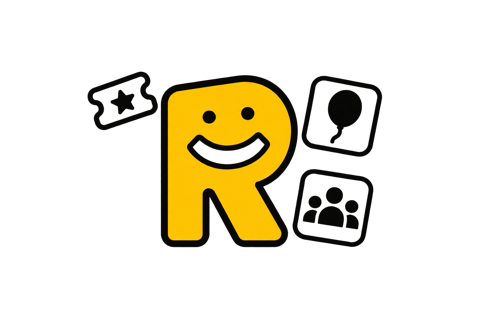
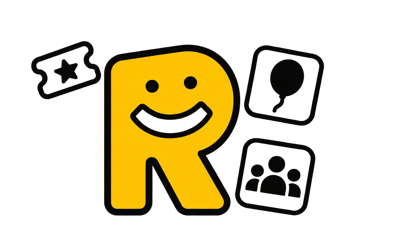
Self Onboarding: illustration position and text styles from V2
Steps show the R illustration above the title, with the description right
under it; Welcome shows it left of the title, with the description and
Get started below. Illustrations are re-cropped exactly like Figma and
saved at 2x (srcset 2x), so each takes its Figma size.

Text: UI/Headline Serif/5 is 36/45 in Figma; code had 36/54 and now
matches. New line-height/40 and UI/Headline Serif/5 Compact (+ Semibold)
for the Welcome title, added in the library too. The unused illustration
height token is removed.

Changed region(s): [[0.06, 0.1694, 0.81, 0.875]]

diff --git a/src/tokens/text-styles.css b/src/tokens/text-styles.css
@@ -121,12 +121,30 @@
 	letter-spacing: var(--letter-spacing-tight);
 }
 
-/* Figma: UI/Headline Serif/5 */
+/* Figma: UI/Headline Serif/5 — line height 45 since 2026-11-10 (code had 54; Figma already had 45, Figma wins). */
 @utility type-ui-headline-serif-5 {
 	font-family: var(--font-serif);
 	font-size: var(--font-size-36);
-	line-height: var(--line-height-54);
+	line-height: var(--line-height-45);
 	font-weight: var(--font-weight-normal);
+	letter-spacing: var(--letter-spacing-tight);
+}
+
+/* Figma: UI/Headline Serif/5 Compact — 36/40, added 2026-11-10 (Self Onboarding welcome title). */
+@utility type-ui-headline-serif-5-compact {
+	font-family: var(--font-serif);
+	font-size: var(--font-size-36);
+	line-height: var(--line-height-40);
+	font-weight: var(--font-weight-normal);
+	letter-spacing: var(--letter-spacing-tight);
+}
+
+/* Figma: UI/Headline Serif/5 Compact Semibold — same, semibold ("Welcome!"). */
+@utility type-ui-headline-serif-5-compact-semibold {
+	font-family: var(--font-serif);
+	font-size: var(--font-size-36);
+	line-height: var(--line-height-40);
+	font-weight: var(--font-weight-semibold);
 	letter-spacing: var(--letter-spacing-tight);
 }
 
@@ -410,5 +428,5 @@
 /* Always generate every text style, even if no file uses it yet
    (Tailwind otherwise only outputs classes it finds written in the code). */
 @source inline(
-	'type-{ui-button,ui-caption,ui-headline-1,ui-headline-2,ui-headline-3,ui-headline-4,ui-headline-5,ui-headline-6,ui-headline-serif-1,ui-headline-serif-2,ui-headline-serif-3,ui-headline-serif-4,ui-headline-serif-5,ui-headline-serif-6,ui-subtitle-1,ui-subtitle-2,ui-subtitle-3,ui-body-1-regular,ui-body-1-medium,ui-body-1-semibold,ui-body-2-regular,ui-body-2-medium,ui-body-2-semibold,ui-body-3-regular,ui-body-3-medium,ui-body-3-semibold,ui-body-4-regular,ui-body-4-medium,ui-body-4-semibold,ui-body-5-regular,ui-body-5-medium,ui-body-5-semibold,ui-overline-1,ui-overline-2,web-subtitles-body,web-labels,web-display-xl,web-display-lg,web-display-md,web-display-sm,web-display-xsm,web-title-regular,web-title-medium}'
+	'type-{ui-button,ui-caption,ui-headline-1,ui-headline-2,ui-headline-3,ui-headline-4,ui-headline-5,ui-headline-6,ui-headline-serif-1,ui-headline-serif-2,ui-headline-serif-3,ui-headline-serif-4,ui-headline-serif-5,ui-headline-serif-5-compact,ui-headline-serif-5-compact-semibold,ui-headline-serif-6,ui-subtitle-1,ui-subtitle-2,ui-subtitle-3,ui-body-1-regular,ui-body-1-medium,ui-body-1-semibold,ui-body-2-regular,ui-body-2-medium,ui-body-2-semibold,ui-body-3-regular,ui-body-3-medium,ui-body-3-semibold,ui-body-4-regular,ui-body-4-medium,ui-body-4-semibold,ui-body-5-regular,ui-body-5-medium,ui-body-5-semibold,ui-overline-1,ui-overline-2,web-subtitles-body,web-labels,web-display-xl,web-display-lg,web-display-md,web-display-sm,web-display-xsm,web-title-regular,web-title-medium}'
 );

diff --git a/src/pages/self-onboarding/StepIntro.svelte b/src/pages/self-onboarding/StepIntro.svelte
@@ -1,39 +1,33 @@
 <!--
-	StepIntro — top of every Self Onboarding screen (Figma V2 "Intro"): headline (UI/Headline Serif/5), then the
-	description (UI/Body/1, muted) next to the "R" illustration (240 × 130, decorative). Gap 8, row gap 12.
-	In dark mode it shows `illustrationDark` (light outlines) when there is one (Adriana, 2026-11-09); otherwise
-	the same image in both modes.
+	StepIntro — top of the Self Onboarding steps (Figma V2 "Intro", updated 2026-11-10): the "R" illustration on
+	top (left-aligned, decorative), then the headline (UI/Headline Serif/5) with the description right under it
+	(UI/Body/1, muted). Gap 8 between the illustration and the text.
+	The illustration is StepIllustration (2x files, dark-mode version when there is one).
 	Page part, not a design-system component: it only exists in this flow.
 -->
 <script lang="ts" module>
 	export interface StepIntroProps {
 		/** Headline (the page's h1). */
 		title: string;
-		/** Line next to the illustration. */
+		/** Line under the headline. */
 		description: string;
-		/** Illustration image URL (light mode, and dark mode when there is no dark version). */
+		/** Illustration image URL, 2x (light mode, and dark mode when there is no dark version). */
 		illustration: string;
-		/** Dark-mode version of the illustration (light outlines). */
+		/** Dark-mode version of the illustration (light outlines), 2x. */
 		illustrationDark?: string;
 	}
 </script>
 
 <script lang="ts">
-	let { title, description, illustration, illustrationDark }: StepIntroProps = $props();
+	import StepIllustration from './StepIllustration.svelte';
 
-	const box =
-		'h-(--size-onboarding-illustration-height) w-(--size-hero-image) shrink-0 object-cover';
+	let { title, description, illustration, illustrationDark }: StepIntroProps = $props();
 </script>
 
-<div class="flex flex-col gap-8">
-	<h1 class="type-ui-headline-serif-5 text-ui-base-foreground">{title}</h1>
-	<div class="flex items-center gap-12">
-		<p class="flex-1 type-ui-body-1-regular text-ui-ui-elements-muted-foreground">{description}</p>
-		{#if illustrationDark}
-			<img src={illustration} alt="" class={[box, 'dark:hidden']} />
-			<img src={illustrationDark} alt="" class={[box, 'hidden dark:block']} />
-		{:else}
-			<img src={illustration} alt="" class={box} />
-		{/if}
+<div class="flex flex-col items-start gap-8">
+	<StepIllustration src={illustration} dark={illustrationDark} />
+	<div class="flex flex-col">
+		<h1 class="type-ui-headline-serif-5 text-ui-base-foreground">{title}</h1>
+		<p class="type-ui-body-1-regular text-ui-ui-elements-muted-foreground">{description}</p>
 	</div>
 </div>

diff --git a/src/pages/self-onboarding/WelcomeScreen.svelte b/src/pages/self-onboarding/WelcomeScreen.svelte
@@ -1,11 +1,31 @@
-<!-- Self Onboarding · 0 Welcome (Figma V2 node 78:3743). -->
+<!--
+	Self Onboarding · 0 Welcome (Figma V2 node 78:3743, updated 2026-11-10): the illustration on the left and the
+	title on the right (gap 12): "Welcome!" in UI/Headline Serif/5 Compact Semibold, then two lines in
+	UI/Headline Serif/5 Compact. Below (gap 20), indented 12: the description and "Get started" (gap 24), left-aligned.
+-->
 <script lang="ts">
-	import { intros } from '#lib/self-onboarding/sample.ts';
-	import StepFooter from './StepFooter.svelte';
-	import StepIntro from './StepIntro.svelte';
+	import { CaretRightIcon } from 'phosphor-svelte';
+	import { Button } from '#components/Button';
+	import { intros, welcomeTitle } from '#lib/self-onboarding/sample.ts';
+	import StepIllustration from './StepIllustration.svelte';
 
 	let { onnext }: { onnext: () => void } = $props();
+
+	const { illustration, illustrationDark, description } = intros.welcome;
 </script>
 
-<StepIntro {...intros.welcome} />
-<StepFooter continueLabel="Get started" oncontinue={onnext} />
+<div class="flex flex-col gap-20">
+	<div class="flex items-center gap-12">
+		<StepIllustration src={illustration} dark={illustrationDark} />
+		<h1 class="text-ui-base-foreground">
+			<span class="block type-ui-headline-serif-5-compact-semibold">{welcomeTitle.lead}</span>
+			{#each welcomeTitle.lines as line (line)}
+				<span class="block type-ui-headline-serif-5-compact">{line}</span>
+			{/each}
+		</h1>
+	</div>
+	<div class="flex flex-col items-start gap-24 px-12">
+		<p class="type-ui-body-1-regular text-ui-ui-elements-muted-foreground">{description}</p>
+		<Button iconRight={CaretRightIcon} iconRegular onclick={onnext}>Get started</Button>
+	</div>
+</div>

diff --git a/src/pages/self-onboarding/StepIllustration.svelte b/src/pages/self-onboarding/StepIllustration.svelte
@@ -1,0 +1,22 @@
+<!--
+	StepIllustration — the "R" illustration of a Self Onboarding screen (decorative). Files are cropped like Figma
+	and saved at 2x; `srcset … 2x` shows them at their Figma size. In dark mode it shows `dark` (light outlines)
+	when there is one (Adriana, 2026-11-09); otherwise the same image in both modes.
+-->
+<script lang="ts">
+	interface Props {
+		/** Image URL, 2x. */
+		src: string;
+		/** Dark-mode version (light outlines), 2x. */
+		dark?: string;
+	}
+
+	let { src, dark }: Props = $props();
+</script>
+
+{#if dark}
+	<img {src} srcset="{src} 2x" alt="" class="shrink-0 dark:hidden" />
+	<img src={dark} srcset="{dark} 2x" alt="" class="hidden shrink-0 dark:block" />
+{:else}
+	<img {src} srcset="{src} 2x" alt="" class="shrink-0" />
+{/if}

diff --git a/src/tokens/spacing.css b/src/tokens/spacing.css
@@ -45,7 +45,6 @@
 	--size-hero-image: 15rem;
 	/* Self Onboarding (Figma "Platform | Runhappy" → V2, approved by Adriana 2026-11-09). */
 	--size-onboarding-column: 35rem; /* 560 — content column and edit dialog width */
-	--size-onboarding-illustration-height: 8.125rem; /* 130 — box of the "R" illustration (width: --size-hero-image) */
 	--size-switch-track: 2.25rem; /* 36 — Switch width (height 20 = spacing-20) */
 	--size-day-label: 6rem; /* 96 — day name in DayRow, so the "to" column lines up */
 	--size-time-field: 8.75rem; /* 140 — TimeField width in DayRow */

diff --git a/src/lib/self-onboarding/sample.ts b/src/lib/self-onboarding/sample.ts
@@ -96,6 +96,12 @@ export const intros: Record<Screen, ScreenIntro> = {
 	}
 };
 
+/**
+ * Welcome title as laid out in Figma V2 (2026-11-10): "Welcome!" in semibold, then two lines in regular, next to
+ * the illustration. Same words as `intros.welcome.title`.
+ */
+export const welcomeTitle = { lead: 'Welcome!', lines: ["Let's set up", 'your front desk'] };
+
 /** The website from the recorded session. */
 export const sampleSite = 'lunte.studio';
 

diff --git a/src/tokens/typography.css b/src/tokens/typography.css
@@ -66,6 +66,7 @@
 	--line-height-24: 1.5rem;
 	--line-height-27: 1.6875rem;
 	--line-height-33: 2.0625rem;
+	--line-height-40: 2.5rem; /* added 2026-11-10 (Adriana): UI/Headline Serif/5 Compact */
 	--line-height-45: 2.8125rem;
 	--line-height-54: 3.375rem;
 	--line-height-72: 4.5rem;

diff --git a/docs/decisions.md b/docs/decisions.md
@@ -836,13 +836,28 @@ To confirm:
 
 - From Figma "Platform | Runhappy" → V2 (section "v2", node 78:4394). Front end only, sample data (lunte.studio).
 - New size tokens (`src/tokens/spacing.css`): `--size-onboarding-column` 560, `--size-onboarding-illustration-height`
-  130, `--size-switch-track` 36, `--size-day-label` 96, `--size-time-field` 140. Illustration width reuses
+  130 (removed 2026-11-10: illustrations now take their own Figma size), `--size-switch-track` 36, `--size-day-label` 96, `--size-time-field` 140. Illustration width reuses
   `--size-hero-image` (240). New border token `--border-selected` 3px (chosen ToneCard / VoiceCard).
 - Top space of the first screens: 64 (Figma 120 is off the spacing scale).
 - Card: new `tone="muted"` (ui/ui elements/card) for this flow; the Report Card stays white.
 - SiteHeader: `variant="flow"` (no divider, full width, 24 px logo, 24/32 padding) with `step` text; `product` optional.
 - New components: Chip, Switch, ProgressBar, Textarea, TimeField, SourceRow, DayRow, ToneCard, VoiceCard, Dialog.
   Open points are listed in `docs/self-onboarding.md` → "Code".
+
+### Self Onboarding: illustration position and text styles (2026-11-10, Adriana decided)
+
+- Figma V2 updated by Adriana: on steps 1–6 the "R" illustration sits above the title (left-aligned) and the
+  description right under the title; on Welcome the illustration is left of the title, with the description and
+  "Get started" below, left-aligned.
+- **UI/Headline Serif/5 drift:** Figma already had 36/45; code had 36/54. Code now matches Figma (Figma wins). The
+  Report Card home title uses it too: lines a little closer (one line on desktop, so no visible change there).
+- **New in the library and code:** `line-height/40` and the text styles `UI/Headline Serif/5 Compact` (36/40
+  regular) and `UI/Headline Serif/5 Compact Semibold` (36/40 semibold) for the Welcome title ("Welcome!" in
+  semibold). Code: `--line-height-40`, `type-ui-headline-serif-5-compact(-semibold)`. Published by Adriana the same
+  day; the 7 step titles in V2 are now linked to Serif/5 and the Welcome title to the two Compact styles.
+- Illustrations re-cropped exactly like Figma from the originals and saved at 2x; shown with `srcset … 2x`, so each
+  one takes its Figma size (153–226 wide). `--size-onboarding-illustration-height` removed.
+- Top space stays 64 (Figma now 100 on Website/Reading and 120 on Welcome, off the spacing scale).
 
 ## Corrections to the CSS export (Figma wins)
 

diff --git a/docs/self-onboarding.md b/docs/self-onboarding.md
@@ -116,7 +116,6 @@ To confirm:
   on the reading screen, the dark layer behind the dialog.
 - Missing states in Figma: Switch, SourceRow, ToneCard, VoiceCard (hover, focus; "playing" for voices). Code uses the
   same patterns as the other components.
-- Illustrations are cropped to one 240 × 130 box; Figma crops each one a little differently.
 - StepIntro and StepFooter are page parts of this flow, not design-system components.
 
 ## Own domain (2026-11-09)
@@ -147,7 +146,8 @@ Seven PNG files, one per current illustration in `src/lib/assets/self-onboarding
 | `voice.png`            | Voice            | `voice-dark.png`            |
 
 - Same drawing, framing and canvas size as the original (Figma sources: 1448 × 1086, packages 1536 × 1024), so the
-  crop in the page stays the same.
+  same crop can be applied. The files in the project are cropped like Figma V2 and saved at 2x (see
+  `docs/decisions.md`, 2026-11-10); the dark ones need the same crop.
 - Transparent background.
 - Only the black outlines and black details change, to a light color; the yellow of the character stays.
 - Light color: to confirm with Adriana. Suggestion: #f5f3ec, the value of `brand/neutral/off black` in dark mode
@@ -155,7 +155,7 @@ Seven PNG files, one per current illustration in `src/lib/assets/self-onboarding
 
 ### How to plug them in (developers)
 
-1. Shrink to 480 px wide like the others (`sips -Z 480 file.png`) and save in `src/lib/assets/self-onboarding/`.
+1. Crop like the light version (same Figma crop, 2x) and save in `src/lib/assets/self-onboarding/`.
 2. In `src/lib/self-onboarding/sample.ts`, import each file and add `illustrationDark: <import>` to its screen in
    `intros` (the website and reading screens share `inspects-website-dark.png`).
 3. Check both modes in Storybook (Pages → Self Onboarding, theme toolbar) or the app.
